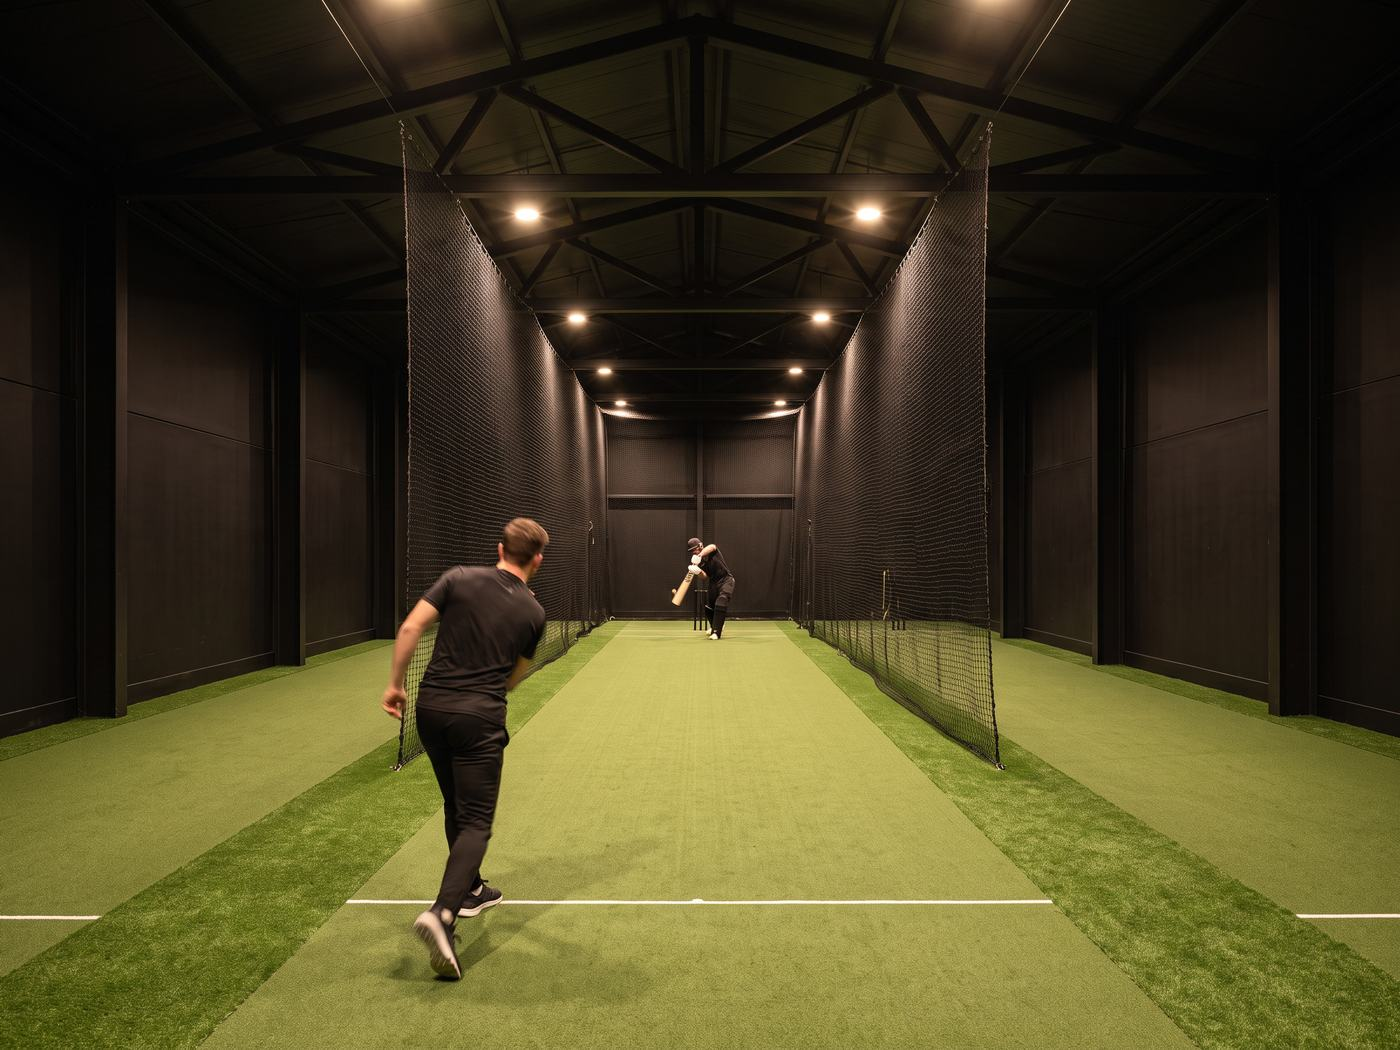
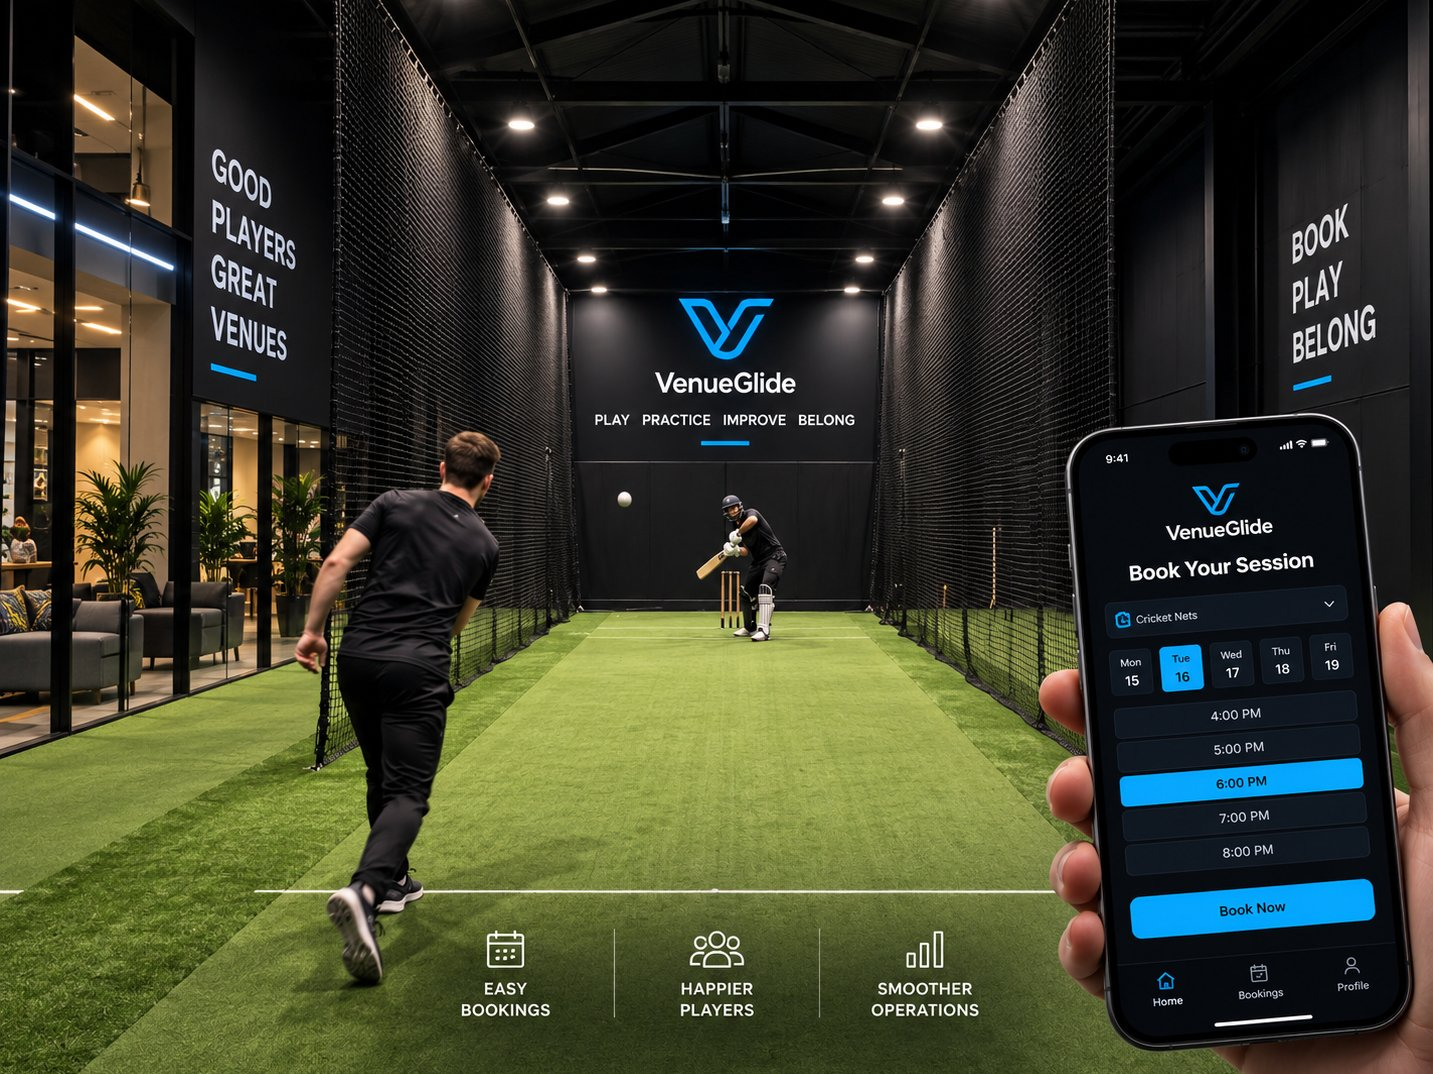
Swap heading font sitewide and update two showcase images
Headings (h1-h3, .ed-display, .ed-heading, .card-title, section titles)
now use Space Grotesk instead of Host Grotesk's bold weight, which read
as visually dense/"sticky" at small sizes with no letter-spacing. Body
copy and buttons keep Host Grotesk/DM Sans.

Also replaces the homepage showcase images for indoor cricket and
padel with updated branded venue photography.

Claude-Session: https://claude.ai/code/session_01KdtgcnGsTKsFdQBVCoNdsq

diff --git a/src/components/home/editorial.css b/src/components/home/editorial.css
@@ -14,6 +14,7 @@
 
 :root {
   --ed-font: "Host Grotesk", "DM Sans", sans-serif;
+  --ed-font-heading: "Space Grotesk", "DM Sans", sans-serif;
   --ed-bg: #000000;
   --ed-bg-alt: #0a0a0a;
   --ed-fg: #ffffff;
@@ -103,6 +104,7 @@ html::-webkit-scrollbar {
    One shared override instead of touching a dozen near-duplicate
    .card-title rules individually. */
 .card-title {
+  font-family: var(--ed-font-heading) !important;
   font-weight: 600 !important;
   letter-spacing: 0.015em !important;
 }
@@ -149,7 +151,7 @@ html::-webkit-scrollbar {
    (26px -> 50px). This is what most section titles use — the all-caps
    oversized treatment is reserved for the hero and the closing statement. */
 .ed-heading {
-  font-family: var(--ed-font);
+  font-family: var(--ed-font-heading);
   font-weight: 600;
   line-height: 1.15;
   letter-spacing: -0.01em;
@@ -162,7 +164,7 @@ html::-webkit-scrollbar {
    the reference's own h1 scale (38px -> 101px), set uppercase because that
    specific copy is authored in caps, not because every heading is. */
 .ed-display {
-  font-family: var(--ed-font);
+  font-family: var(--ed-font-heading);
   font-weight: 600;
   text-transform: uppercase;
   line-height: 1.05;
@@ -433,7 +435,7 @@ html::-webkit-scrollbar {
 /* ---- scroll-scrubbed statement --------------------------------------- */
 
 .ed-statement {
-  font-family: var(--ed-font);
+  font-family: var(--ed-font-heading);
   font-weight: 500;
   line-height: 1.35;
   letter-spacing: -0.005em;
@@ -462,7 +464,7 @@ html::-webkit-scrollbar {
   align-items: center;
   gap: 34px;
   margin-right: 34px;
-  font-family: var(--ed-font);
+  font-family: var(--ed-font-heading);
   font-weight: 500;
   font-size: clamp(1rem, 1.8vw, 1.4rem);
   color: rgba(255, 255, 255, 0.55);
@@ -493,7 +495,7 @@ html::-webkit-scrollbar {
 }
 
 .ed-figure-value {
-  font-family: var(--ed-font);
+  font-family: var(--ed-font-heading);
   font-weight: 600;
   font-size: clamp(2.2rem, 3.6vw, 3.4rem);
   line-height: 1;
@@ -567,7 +569,7 @@ html::-webkit-scrollbar {
 }
 
 .ed-showcase-title {
-  font-family: var(--ed-font);
+  font-family: var(--ed-font-heading);
   font-weight: 600;
   font-size: clamp(1.4rem, 2.1vw, 2rem);
   line-height: 1.2;

diff --git a/public/index.html b/public/index.html
@@ -25,7 +25,7 @@
     -->
   <link rel="preconnect" href="https://fonts.googleapis.com" />
   <link rel="preconnect" href="https://fonts.gstatic.com" crossorigin />
-  <link href="https://fonts.googleapis.com/css2?family=DM+Sans:wght@400;500;600;700&family=Host+Grotesk:wght@300;400;500;600;700&display=swap" rel="stylesheet" />
+  <link href="https://fonts.googleapis.com/css2?family=DM+Sans:wght@400;500;600;700&family=Host+Grotesk:wght@300;400;500;600;700&family=Space+Grotesk:wght@400;500;600;700&display=swap" rel="stylesheet" />
   <title>Venue Glide</title>
 </head>
 

diff --git a/src/css/main.css b/src/css/main.css
@@ -51,7 +51,7 @@
 
 :root {
   --font-body: "Host Grotesk", "DM Sans", sans-serif;
-  --font-heading: "Host Grotesk", "DM Sans", sans-serif;
+  --font-heading: "Space Grotesk", "DM Sans", sans-serif;
   --color-primary: #00D4ff;
   --color-secondary: #00020f;
   --color-heading: #fff;
